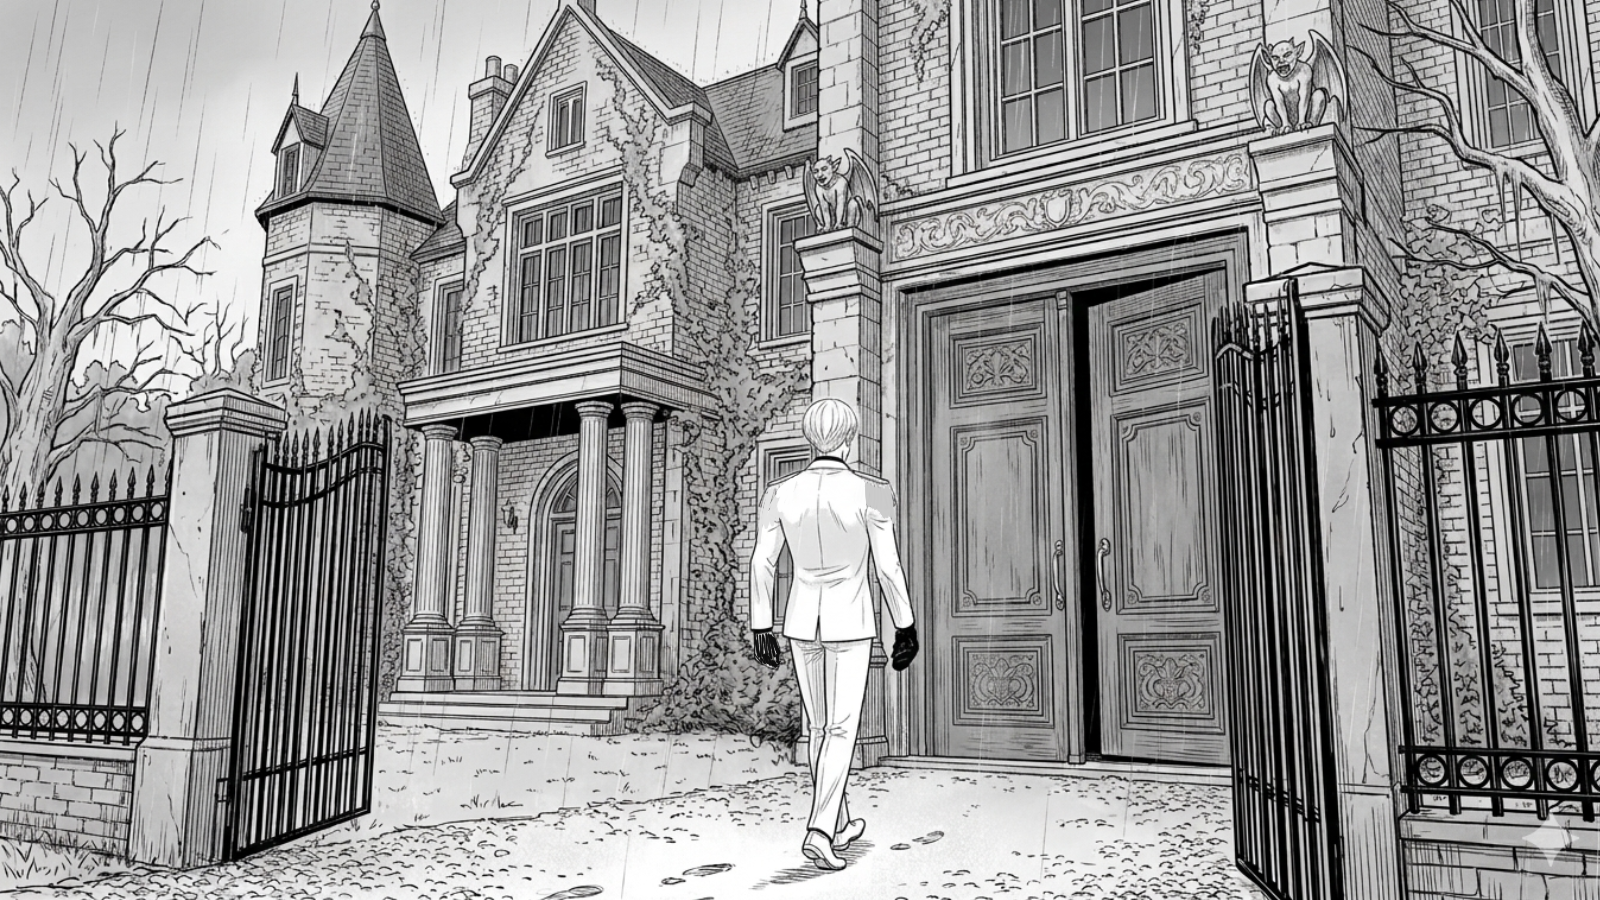
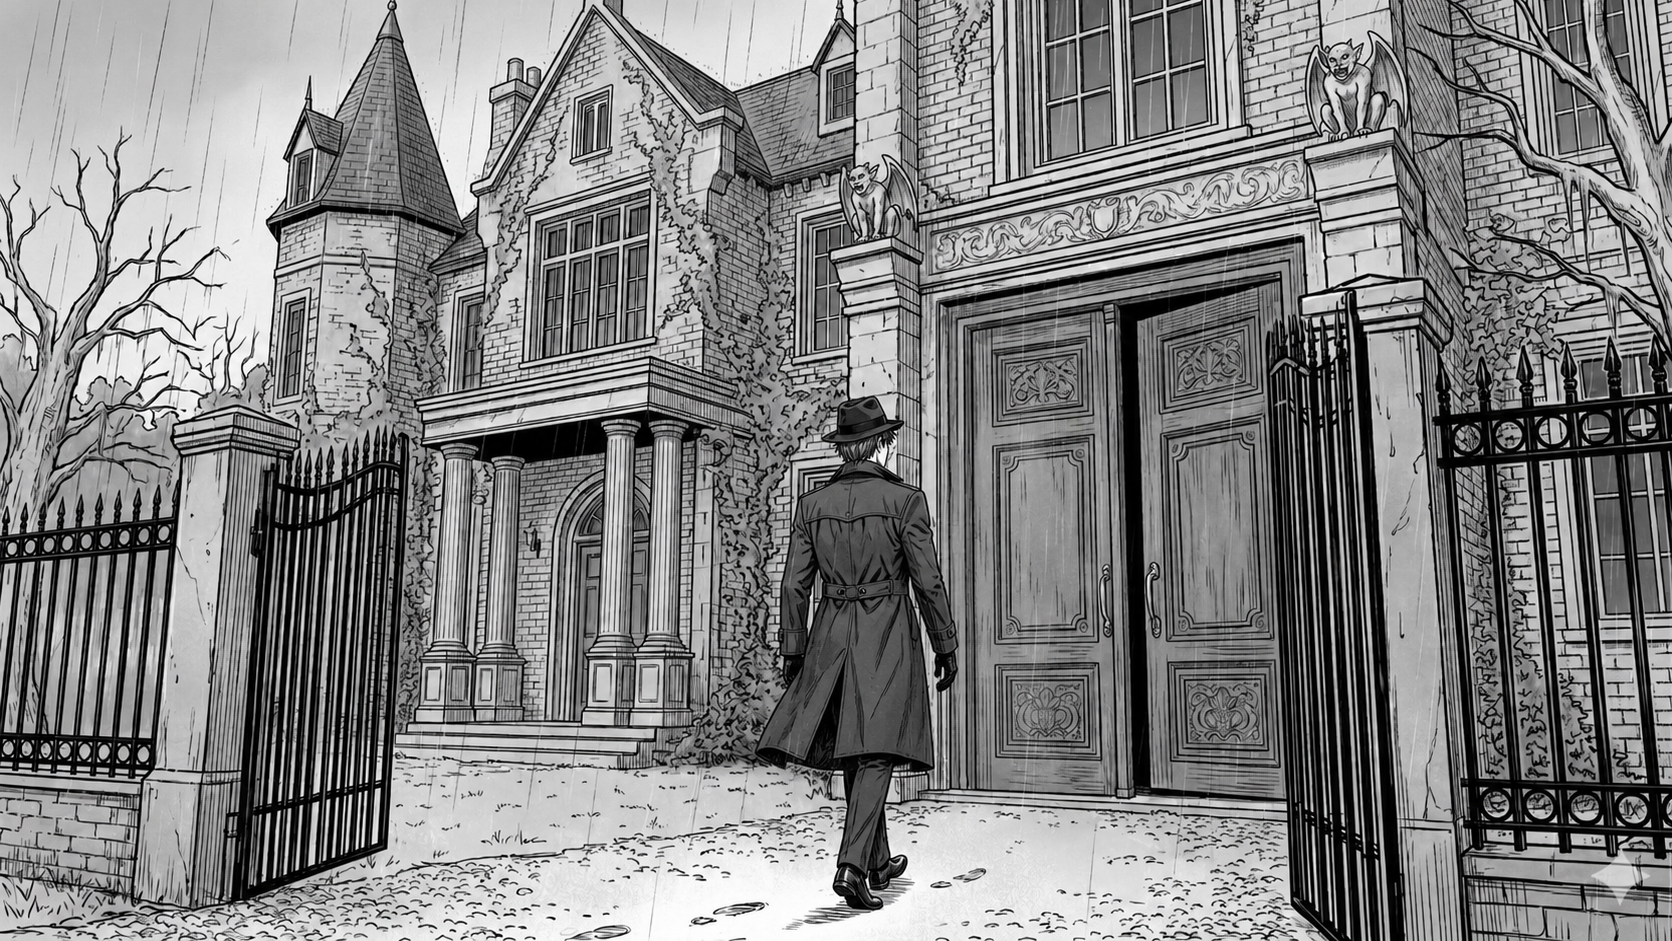
te

diff --git a/evidence.py b/evidence.py
@@ -44,7 +44,7 @@ class evidence(App_default):
 
 
     def on_click_smile(self):
-        popup= EvidencePopup(
+        popup= EvidencePopup2(
             name="[남작의 웃음]",
             description="자살이 사인이라면, 남작은 왜 웃고있을까? 남작의 웃음은 모순적이다. 독살이나 약물 복용의 가능성을 열어보자.",
             parent=self
@@ -54,7 +54,7 @@ class evidence(App_default):
         self.smile_click=True
 
     def on_click_imprint(self):
-        popup= EvidencePopup(
+        popup= EvidencePopup2(
             name="[목이 졸린 흔적]",
             description="목에 남아있는 흔적의 형태를 보아선, 목줄이 목을 조른 시점에 남작은 이미 죽은 상태였을 것이다.",
             parent=self
@@ -64,7 +64,7 @@ class evidence(App_default):
         self.imprint_click=True
 
     def on_click_hurt(self):
-        popup= EvidencePopup(
+        popup= EvidencePopup2(
             name="[목의 자잘한 상처]",
             description="저항한 흔적이 있다. 몸싸움을 했던 것일까? 단순 자살이 아닐 가능성이 높다.",
             parent=self
@@ -74,7 +74,7 @@ class evidence(App_default):
         self.hurt_click=True
 
     def on_click_ink(self):
-        popup= EvidencePopup(
+        popup= EvidencePopup2(
             name="[옷에 묻어있는 잉크]",
             description="연회장에 잉크는 없다. 다른 장소에서 묻은 것일까?",
             parent=self
@@ -97,8 +97,10 @@ class slect(App_default):
 
         self.subtitle_bg.hide()
 
-        self.background.setPixmap(QPixmap("png/.png").scaled(1600, 900))
+        self.background.setPixmap(QPixmap("png/bg/slect.png").scaled(1600, 900))
         self.background.lower()  # 제일 뒤로
+
+
 
         from default import ClickableLabel
         self.study=ClickableLabel("png/.png", self)
@@ -149,27 +151,27 @@ class evidence2(App_default):
 
         from default import ClickableLabel
         self.glass = ClickableLabel("png/ev/glass.png", self)
-        self.glass.setGeometry(180, 20, self.x, self.y)
+        self.glass.setGeometry(1090, 453, self.x, self.y)
         self.glass.clicked.connect(self.on_click_glass)
         self.glass.setCursor(QCursor(Qt.PointingHandCursor))
 
         self.pendant = ClickableLabel("png/ev/pendant.png", self)
-        self.pendant.setGeometry(1480, 20, self.x, self.y)
+        self.pendant.setGeometry(129, 577, self.x, self.y)
         self.pendant.clicked.connect(self.on_click_pendant)
         self.pendant.setCursor(QCursor(Qt.PointingHandCursor))
 
         self.handkerchief = ClickableLabel("png/ev/handkerchief.png", self)
-        self.handkerchief.setGeometry(1480, 20, self.x, self.y)
+        self.handkerchief.setGeometry(1461, 662, self.x, self.y)
         self.handkerchief.clicked.connect(self.on_click_handkerchief)
         self.handkerchief.setCursor(QCursor(Qt.PointingHandCursor))
 
         self.glove = ClickableLabel("png/ev/glove.png", self)
-        self.glove.setGeometry(1480, 20, self.x, self.y)
+        self.glove.setGeometry(1152, 220, self.x, self.y)
         self.glove.clicked.connect(self.on_click_glove)
         self.glove.setCursor(QCursor(Qt.PointingHandCursor))
 
         self.letter = ClickableLabel("png/ev/letter.png", self)
-        self.letter.setGeometry(1480, 20, self.x, self.y)
+        self.letter.setGeometry(683, 495, self.x, self.y)
         self.letter.clicked.connect(self.on_click_letter)
         self.letter.setCursor(QCursor(Qt.PointingHandCursor))
 
